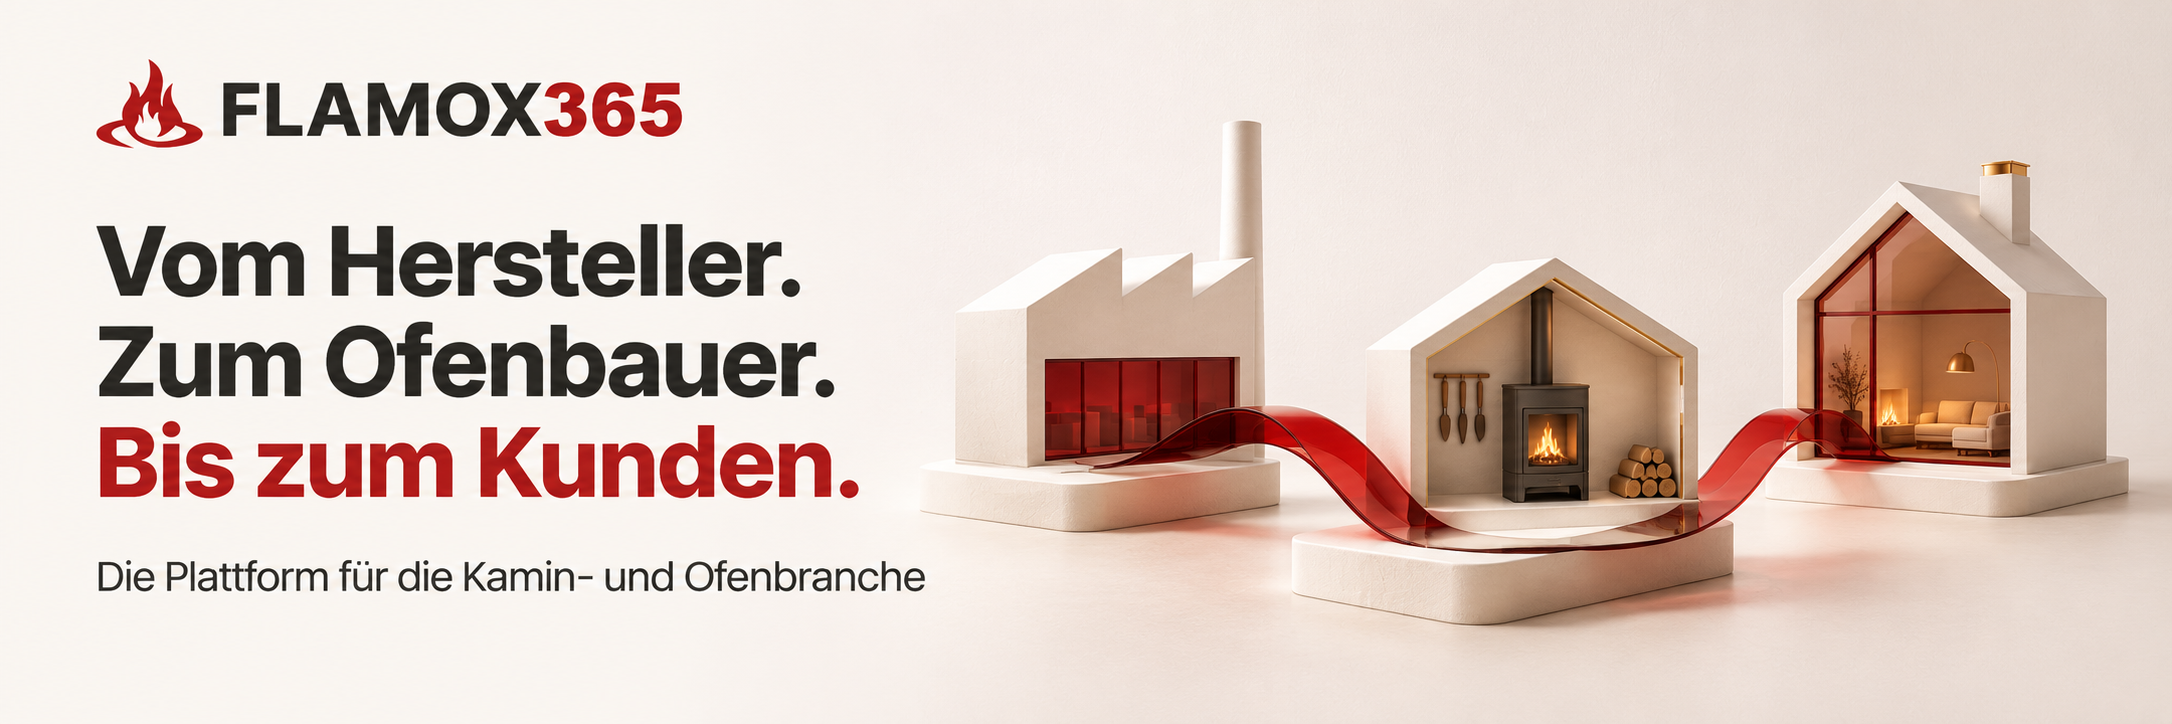
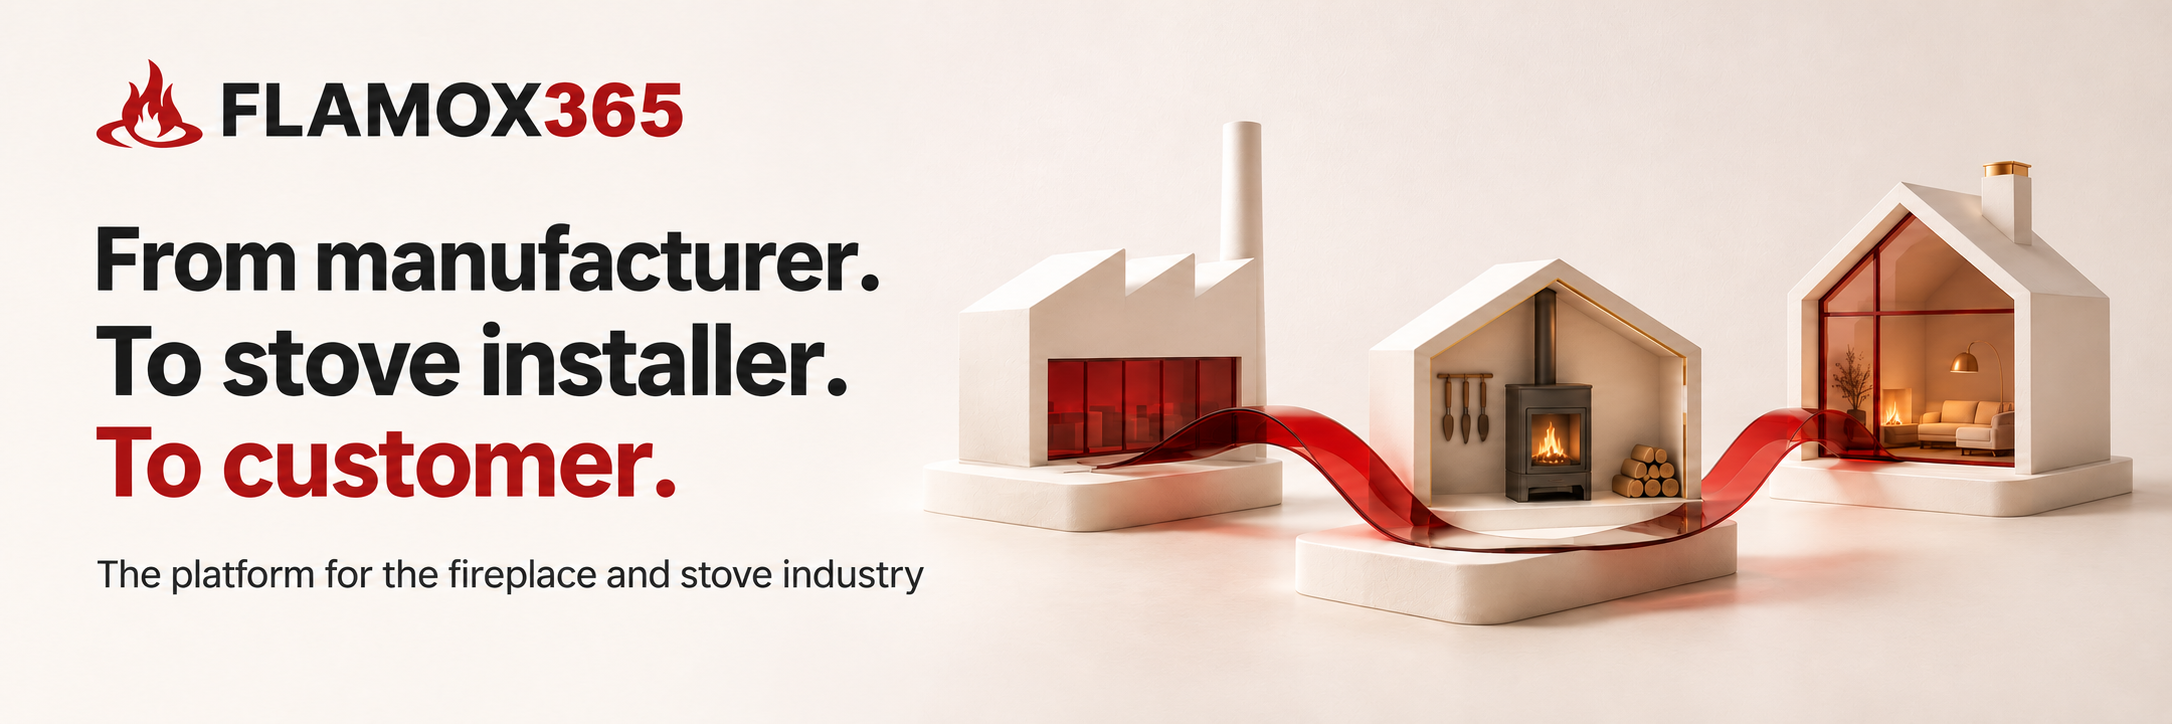
docs: present the organization profile in English

diff --git a/README.md b/README.md
@@ -1,55 +1,51 @@
-[![FLAMOX365 – Vom Hersteller. Zum Ofenbauer. Bis zum Kunden.](https://raw.githubusercontent.com/FLAMOX365/.github/main/assets/cover.png)](https://www.flamox365.com/)
+[![FLAMOX365 – From manufacturer. To stove installer. To customer.](https://raw.githubusercontent.com/FLAMOX365/.github/main/assets/cover.png?v=english)](https://www.flamox365.com/)
 
-# Die Plattform für die Kamin- und Ofenbranche
+# The platform for the fireplace and stove industry
 
-**FLAMOX365 verbindet Produktdaten, Verkauf und Handwerk in einem durchgängigen Ablauf.** Vom ersten Kundenkontakt über Beratung, Angebot und Auftrag bis zur Montage, Rechnung und zum Service: Ofenbaubetriebe arbeiten mit einem gemeinsamen Datenstand und behalten ihre Vorgänge im Blick.
+**FLAMOX365 connects product data, sales and skilled trades in one continuous workflow.** From the first customer enquiry through consultation, quotations and orders to installation, invoicing and service: fireplace and stove businesses work from a shared set of information and keep track of every job.
 
-Zentral gepflegte Hersteller- und Produktdaten, Zusammenarbeit im Team und ein KI Assistent unterstützen die tägliche Arbeit – im Büro, im Verkauf und unterwegs.
+Centrally maintained manufacturer and product data, team collaboration and an AI assistant support everyday work – in the office, on the sales floor and on site.
 
-[Webseite](https://www.flamox365.com/) · [Alle Funktionen](https://www.flamox365.com/funktionen/) · [Kontakt](mailto:mail@flamox365.com)
+[Website](https://www.flamox365.com/) · [Explore all features](https://www.flamox365.com/funktionen/) · [Contact](mailto:mail@flamox365.com)
 
-> **In Entwicklung:** FLAMOX365 befindet sich vor dem allgemeinen Marktstart. Die folgenden Links stellen die Plattform und ihre Funktionen auf der Hauptwebseite vor.
+## What FLAMOX365 brings together
 
-## Was FLAMOX365 zusammenbringt
+- **Customers and sales:** Manage leads, document consultations, configure products and guide quotations through to the customer's decision.
+- **Orders and delivery:** Keep orders, installation, invoices and service connected throughout the job.
+- **Products and purchasing:** Work with manufacturer and product data in the catalogue and purchase through the business shop.
+- **Team and organisation:** Connect tasks, schedules and conversations to the relevant job.
+- **AI assistance:** Find information and prepare next steps. The assistant suggests; people decide.
+- **Integrations:** Connect your own systems through the API, webhooks and Edge Connector.
 
-- **Kunden und Verkauf:** Interessenten betreuen, Beratungen dokumentieren, Produkte konfigurieren und Angebote bis zur Kundenentscheidung begleiten.
-- **Auftrag und Ausführung:** Aufträge, Montage, Rechnungen und Service im Zusammenhang bearbeiten.
-- **Produkte und Einkauf:** Hersteller- und Produktdaten im Katalog nutzen und den Einkauf über den Shop für Unternehmen abwickeln.
-- **Team und Organisation:** Aufgaben, Termine und Absprachen mit dem jeweiligen Vorgang verbinden.
-- **KI Unterstützung:** Informationen erschließen und Arbeitsschritte vorbereiten. Der Assistent schlägt vor, der Mensch entscheidet.
-- **Schnittstellen:** Eigene Systeme über API, Webhooks und den Edge Connector anbinden.
+## Explore FLAMOX365
 
-## Webseiten und Anwendungen
-
-| Einstieg | Wofür? |
+| Destination | What you will find |
 | --- | --- |
-| [Webseite](https://www.flamox365.com/) | Produktvorstellung, Zielgruppen und Kontakt |
-| [Feature-Katalog](https://www.flamox365.com/funktionen/) | Überblick über Funktionen und ihren Entwicklungsstand |
-| [Portal für Ofenbaubetriebe](https://www.flamox365.com/ofenbauer/) | Arbeitsbereich für Kunden, Verkauf, Aufträge und Team |
-| [Shop für Unternehmen](https://www.flamox365.com/shop/) | Einkauf für Unternehmen |
-| [Status](https://status.flamox365.app/) | Betriebsstatus der Dienste |
-| [API und Schnittstelle](https://www.flamox365.com/api-und-schnittstelle/) | Informationen zur Integration eigener Systeme |
+| [Website](https://www.flamox365.com/) | Product overview, who it is for and contact details |
+| [Feature catalogue](https://www.flamox365.com/funktionen/) | Explore the platform's capabilities |
+| [Portal for stove installers](https://www.flamox365.com/ofenbauer/) | Customers, sales, orders and teamwork |
+| [Business shop](https://www.flamox365.com/shop/) | Purchasing for businesses |
+| [Service status](https://status.flamox365.app/) | Operational status of the services |
+| [API and integrations](https://www.flamox365.com/api-und-schnittstelle/) | Information on connecting your own systems |
 
-## Technologie
+## Technology
 
-| Bereich | Grundlage |
+| Area | Foundation |
 | --- | --- |
-| Sprache | TypeScript |
-| Oberfläche | Angular und Mosaik |
-| Backend | NestJS und Archipel |
-| Daten | PostgreSQL und Prisma |
-| Schnittstellen | OpenAPI und Webhooks |
-| Workspace und Qualität | Nx, Vitest und Playwright |
+| Language | TypeScript |
+| User interface | Angular and Mosaik |
+| Backend | NestJS and Archipel |
+| Data | PostgreSQL and Prisma |
+| Interfaces | OpenAPI and webhooks |
+| Workspace and quality | Nx, Vitest and Playwright |
 
-Mosaik und Archipel stammen aus dem [Pixel-Brewery-Ökosystem](https://github.com/pixel-brewery). FLAMOX365 entwickelt darauf die Fachprozesse für die Kamin- und Ofenbranche.
+Mosaik and Archipel are part of the [Pixel Brewery ecosystem](https://github.com/pixel-brewery). FLAMOX365 builds on these foundations to support the workflows of the fireplace and stove industry.
 
-## Offene Bausteine
+## Public building blocks
 
-Die Fachanwendung wird in einem privaten Repository entwickelt. Öffentlich verfügbar sind:
-
-- [Edge Connector](https://github.com/FLAMOX365/flamox-edge-connector) – lokale Laufzeit und Entwicklungswerkzeuge für die sichere Anbindung betrieblicher Systeme.
-- [Edge Connector Extensions](https://github.com/FLAMOX365/flamox-edge-connector-extensions) – Erweiterungskatalog für den Edge Connector.
+- [Edge Connector](https://github.com/FLAMOX365/flamox-edge-connector) – a local runtime and development tools for securely connecting business systems.
+- [Edge Connector Extensions](https://github.com/FLAMOX365/flamox-edge-connector-extensions) – the extension catalogue for Edge Connector.
 
 ---
 
-**Aus dem Ofenbau. Für den Ofenbau.** Mehr erfahren auf [flamox365.com](https://www.flamox365.com/).
+**From the trade. For the trade.** Learn more at [flamox365.com](https://www.flamox365.com/).

diff --git a/profile/README.md b/profile/README.md
@@ -1,55 +1,51 @@
-[![FLAMOX365 – Vom Hersteller. Zum Ofenbauer. Bis zum Kunden.](https://raw.githubusercontent.com/FLAMOX365/.github/main/assets/cover.png)](https://www.flamox365.com/)
+[![FLAMOX365 – From manufacturer. To stove installer. To customer.](https://raw.githubusercontent.com/FLAMOX365/.github/main/assets/cover.png?v=english)](https://www.flamox365.com/)
 
-# Die Plattform für die Kamin- und Ofenbranche
+# The platform for the fireplace and stove industry
 
-**FLAMOX365 verbindet Produktdaten, Verkauf und Handwerk in einem durchgängigen Ablauf.** Vom ersten Kundenkontakt über Beratung, Angebot und Auftrag bis zur Montage, Rechnung und zum Service: Ofenbaubetriebe arbeiten mit einem gemeinsamen Datenstand und behalten ihre Vorgänge im Blick.
+**FLAMOX365 connects product data, sales and skilled trades in one continuous workflow.** From the first customer enquiry through consultation, quotations and orders to installation, invoicing and service: fireplace and stove businesses work from a shared set of information and keep track of every job.
 
-Zentral gepflegte Hersteller- und Produktdaten, Zusammenarbeit im Team und ein KI Assistent unterstützen die tägliche Arbeit – im Büro, im Verkauf und unterwegs.
+Centrally maintained manufacturer and product data, team collaboration and an AI assistant support everyday work – in the office, on the sales floor and on site.
 
-[Webseite](https://www.flamox365.com/) · [Alle Funktionen](https://www.flamox365.com/funktionen/) · [Kontakt](mailto:mail@flamox365.com)
+[Website](https://www.flamox365.com/) · [Explore all features](https://www.flamox365.com/funktionen/) · [Contact](mailto:mail@flamox365.com)
 
-> **In Entwicklung:** FLAMOX365 befindet sich vor dem allgemeinen Marktstart. Die folgenden Links stellen die Plattform und ihre Funktionen auf der Hauptwebseite vor.
+## What FLAMOX365 brings together
 
-## Was FLAMOX365 zusammenbringt
+- **Customers and sales:** Manage leads, document consultations, configure products and guide quotations through to the customer's decision.
+- **Orders and delivery:** Keep orders, installation, invoices and service connected throughout the job.
+- **Products and purchasing:** Work with manufacturer and product data in the catalogue and purchase through the business shop.
+- **Team and organisation:** Connect tasks, schedules and conversations to the relevant job.
+- **AI assistance:** Find information and prepare next steps. The assistant suggests; people decide.
+- **Integrations:** Connect your own systems through the API, webhooks and Edge Connector.
 
-- **Kunden und Verkauf:** Interessenten betreuen, Beratungen dokumentieren, Produkte konfigurieren und Angebote bis zur Kundenentscheidung begleiten.
-- **Auftrag und Ausführung:** Aufträge, Montage, Rechnungen und Service im Zusammenhang bearbeiten.
-- **Produkte und Einkauf:** Hersteller- und Produktdaten im Katalog nutzen und den Einkauf über den Shop für Unternehmen abwickeln.
-- **Team und Organisation:** Aufgaben, Termine und Absprachen mit dem jeweiligen Vorgang verbinden.
-- **KI Unterstützung:** Informationen erschließen und Arbeitsschritte vorbereiten. Der Assistent schlägt vor, der Mensch entscheidet.
-- **Schnittstellen:** Eigene Systeme über API, Webhooks und den Edge Connector anbinden.
+## Explore FLAMOX365
 
-## Webseiten und Anwendungen
-
-| Einstieg | Wofür? |
+| Destination | What you will find |
 | --- | --- |
-| [Webseite](https://www.flamox365.com/) | Produktvorstellung, Zielgruppen und Kontakt |
-| [Feature-Katalog](https://www.flamox365.com/funktionen/) | Überblick über Funktionen und ihren Entwicklungsstand |
-| [Portal für Ofenbaubetriebe](https://www.flamox365.com/ofenbauer/) | Arbeitsbereich für Kunden, Verkauf, Aufträge und Team |
-| [Shop für Unternehmen](https://www.flamox365.com/shop/) | Einkauf für Unternehmen |
-| [Status](https://status.flamox365.app/) | Betriebsstatus der Dienste |
-| [API und Schnittstelle](https://www.flamox365.com/api-und-schnittstelle/) | Informationen zur Integration eigener Systeme |
+| [Website](https://www.flamox365.com/) | Product overview, who it is for and contact details |
+| [Feature catalogue](https://www.flamox365.com/funktionen/) | Explore the platform's capabilities |
+| [Portal for stove installers](https://www.flamox365.com/ofenbauer/) | Customers, sales, orders and teamwork |
+| [Business shop](https://www.flamox365.com/shop/) | Purchasing for businesses |
+| [Service status](https://status.flamox365.app/) | Operational status of the services |
+| [API and integrations](https://www.flamox365.com/api-und-schnittstelle/) | Information on connecting your own systems |
 
-## Technologie
+## Technology
 
-| Bereich | Grundlage |
+| Area | Foundation |
 | --- | --- |
-| Sprache | TypeScript |
-| Oberfläche | Angular und Mosaik |
-| Backend | NestJS und Archipel |
-| Daten | PostgreSQL und Prisma |
-| Schnittstellen | OpenAPI und Webhooks |
-| Workspace und Qualität | Nx, Vitest und Playwright |
+| Language | TypeScript |
+| User interface | Angular and Mosaik |
+| Backend | NestJS and Archipel |
+| Data | PostgreSQL and Prisma |
+| Interfaces | OpenAPI and webhooks |
+| Workspace and quality | Nx, Vitest and Playwright |
 
-Mosaik und Archipel stammen aus dem [Pixel-Brewery-Ökosystem](https://github.com/pixel-brewery). FLAMOX365 entwickelt darauf die Fachprozesse für die Kamin- und Ofenbranche.
+Mosaik and Archipel are part of the [Pixel Brewery ecosystem](https://github.com/pixel-brewery). FLAMOX365 builds on these foundations to support the workflows of the fireplace and stove industry.
 
-## Offene Bausteine
+## Public building blocks
 
-Die Fachanwendung wird in einem privaten Repository entwickelt. Öffentlich verfügbar sind:
-
-- [Edge Connector](https://github.com/FLAMOX365/flamox-edge-connector) – lokale Laufzeit und Entwicklungswerkzeuge für die sichere Anbindung betrieblicher Systeme.
-- [Edge Connector Extensions](https://github.com/FLAMOX365/flamox-edge-connector-extensions) – Erweiterungskatalog für den Edge Connector.
+- [Edge Connector](https://github.com/FLAMOX365/flamox-edge-connector) – a local runtime and development tools for securely connecting business systems.
+- [Edge Connector Extensions](https://github.com/FLAMOX365/flamox-edge-connector-extensions) – the extension catalogue for Edge Connector.
 
 ---
 
-**Aus dem Ofenbau. Für den Ofenbau.** Mehr erfahren auf [flamox365.com](https://www.flamox365.com/).
+**From the trade. For the trade.** Learn more at [flamox365.com](https://www.flamox365.com/).
